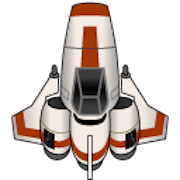
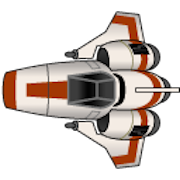
ship rotates and moves forward according to current rotation

diff --git a/lib/javascripts/ship.js b/lib/javascripts/ship.js
@@ -10,8 +10,8 @@ var Ship = Asteroids.Ship = function (obj) {
   this.img = new Image();
   this.img.src = 'lib/images/directional_ship.png';
   this.rotation = 0.02;
-  this.angle = 0;
-}
+  this.angle = 90;
+};
 
 Asteroids.Util.inherits(Ship, Asteroids.movingObject);
 Ship.RADIUS = 20;
@@ -20,15 +20,30 @@ Ship.COLOR = "green";
 Ship.prototype.relocate = function () {
   this.pos = this.game.randomPosition();
   this.vel = [0,0];
-}
+};
 
 
-Ship.prototype.power = function (impulse) {
-  this.vel[0] += impulse[0];
-  this.vel[1] += impulse[1];
-}
+Ship.prototype.rotate = function (direction) {
+  this.angle += direction * 10;
+  console.log(this.angle);
+};
 
-Asteroids.Ship.prototype.fireBullet = function () {
+Ship.prototype.angleToRadians = function(angle) {
+  return angle * (Math.PI / 180);
+};
+
+Ship.prototype.power = function (direction) {
+  var that = this
+  var xVector = Math.cos(Asteroids.Util.toRadians(that.angle)) * direction * 0.3;
+  var yVector = Math.sin(Asteroids.Util.toRadians(that.angle)) * direction * 0.3;
+
+  console.log('X' + xVector)
+  console.log('Y' + yVector)
+  this.vel[0] += xVector;
+  this.vel[1] += yVector;
+};
+
+Ship.prototype.fireBullet = function () {
   var xFunc = (this.vel[0] / Math.abs(this.vel[0]))
   var yFunc = (this.vel[1] / Math.abs(this.vel[1]))
 
@@ -57,24 +72,18 @@ Asteroids.Ship.prototype.fireBullet = function () {
 };
 
 Ship.prototype.draw = function (ctx) {
-  ctx.drawImage(this.img, this.pos[0]-this.radius, this.pos[1]-this.radius, this.radius*2, this.radius*2);
-};
-
-
-Asteroids.Asteroid.prototype.draw = function (ctx) {
   //rotaion code:
-  //temporarily resets the asteroid's current position as the context
+  //temporarily resets the ship's current position as the context
   //origin in order to have the whole ctx rotate around that point
   ctx.save();
   ctx.translate(this.pos[0], this.pos[1]);
-  this.angle += this.rotation
-  ctx.rotate(this.angle);
+  ctx.rotate(this.angleToRadians(this.angle));
 
   //draws image at the center point of the screen since
   //that was temporarily reset as the ctx origin point
   ctx.drawImage(this.img, 0 - this.radius, 0 - this.radius, this.radius*2, this.radius*2);
 
   //then resets the context origin to the top left corner of the screen
-  //after the asteroid is drawn
+  //after the ship is drawn
   ctx.restore();
 };

diff --git a/lib/javascripts/asteroid.js b/lib/javascripts/asteroid.js
@@ -10,7 +10,7 @@ var Asteroid = Asteroids.Asteroid = function (obj) {
   this.img = new Image();
   this.img.src = 'lib/images/asteroid.png';
   this.rotation = Math.random() * 0.04;
-  this.angle = 0;
+  this.angleInRadians = 0;
 };
 
 Asteroids.Util.inherits(Asteroids.Asteroid, Asteroids.movingObject);
@@ -27,8 +27,8 @@ Asteroids.Asteroid.prototype.draw = function (ctx) {
   //origin in order to have the whole ctx rotate around that point
   ctx.save();
   ctx.translate(this.pos[0], this.pos[1]);
-  this.angle += this.rotation
-  ctx.rotate(this.angle);
+  this.angleInRadians += this.rotation
+  ctx.rotate(this.angleInRadians);
 
   //draws image at the center point of the screen since
   //that was temporarily reset as the ctx origin point

diff --git a/lib/javascripts/gameView.js b/lib/javascripts/gameView.js
@@ -21,19 +21,19 @@ Asteroids.GameView.prototype.start = function() {
 
 Asteroids.GameView.prototype.bindKeyHandlers = function() {
   key('up', (function() {
-    this.game.ship.power([0, -0.5])
+    this.game.ship.power(-1)
   }).bind(this));
 
   key('down', (function() {
-    this.game.ship.power([0, 0.5])
+    this.game.ship.power(1)
   }).bind(this));
 
   key('left', (function() {
-    this.game.ship.power([-0.5, 0])
+    this.game.ship.rotate(-1)
   }).bind(this));
 
   key('right', (function() {
-    this.game.ship.power([0.5, 0])
+    this.game.ship.rotate(1)
   }).bind(this));
 
   key('space', (function() {

diff --git a/lib/javascripts/utils.js b/lib/javascripts/utils.js
@@ -12,6 +12,10 @@ Asteroids.Util.inherits = function (childClass, parentClass) {
   childClass.prototype = new Surrogate();
 };
 
+Asteroids.Util.toRadians = function(angle) {
+  return angle * (Math.PI / 180);
+};
+
 
 Asteroids.Util.randomVec = function(length) {
   var vec = [];
